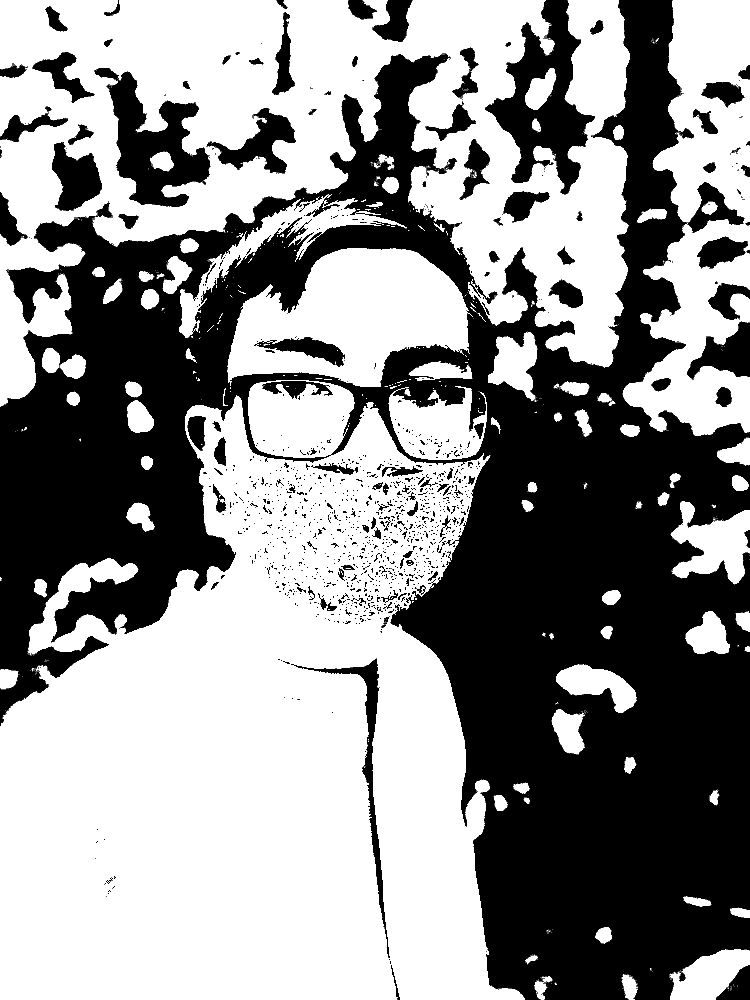
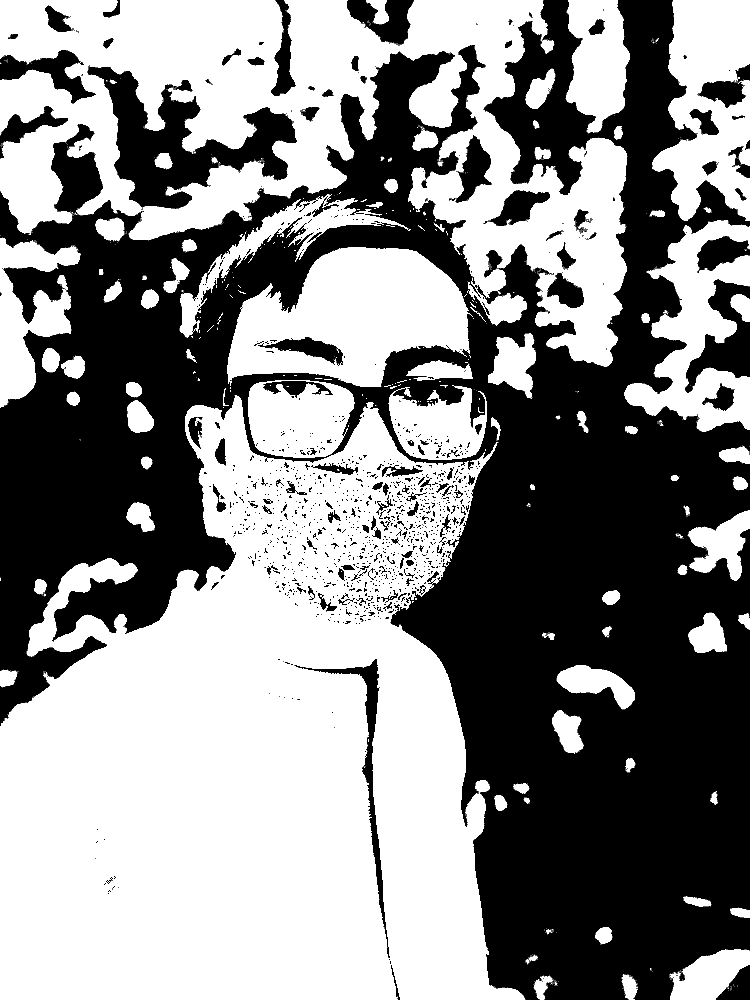
20

diff --git a/A01/program.py b/A01/program.py
@@ -4,14 +4,18 @@ import cv2
 img=cv2.imread("input/image1.png")
 
 def normalize(img):
-    img=img-np.min(img)
-    img=img/np.max(img)
-    img*=255.99
-    return np.uint8(img)
+    nimg=1*img
+    nimg=nimg-np.min(nimg)
+    nimg=nimg/np.max(nimg)
+    nimg*=255.99
+    return np.uint8(nimg)
 
-if np.min(img)<0 or np.max(img)>255:
-    img=normalize(img)
-    print("Had to normalize image")
+def show(img):
+    simg=1*img
+    if np.min(simg)<0 or np.max(simg)>255:
+        simg=normalize(simg)
+        print("Had to normalize image")
+    return simg
 
 def greyscale(img):
     b = img[:, :, 0]*0.1
@@ -21,23 +25,23 @@ def greyscale(img):
     return img
 
 def blackWhite(img, threshold):
-    bw = 1*img[:, :, 1]
+    bw = 1*greyscale(img)
     bw[np.uint8(bw) < threshold] = 0
     bw[np.uint8(bw) > threshold] = 255
     return bw
 
 def desaturate(img ,percent):
-    # Set contra to a double and img for overflow reasons
-    desat = np.double(img[:, :, :])
+    desat = 1*np.double(img[:, :, :])
+    grey = greyscale(img)
 
     # Actual math behind desat
-    desat[:, :, :] = 1.0 * (desat[:, :, :] - 128) * percent + 128
-
+    desat[:, :, :] = (desat[:, :, :] *(1 - percent)) + (grey[:,:,None] * percent)
+    #grey*percent + img*(1-percent)
     # Overflow Check
     desat[desat > 255] = 255
     desat[desat < 0] = 0
 
-    return np.uint8(desat)
+    return desat
 
 def contrast(img, factor):
     cimg = 1*img
